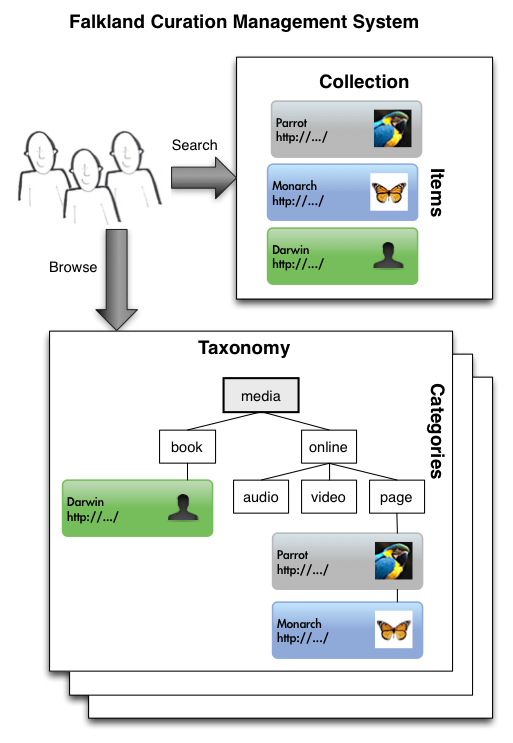
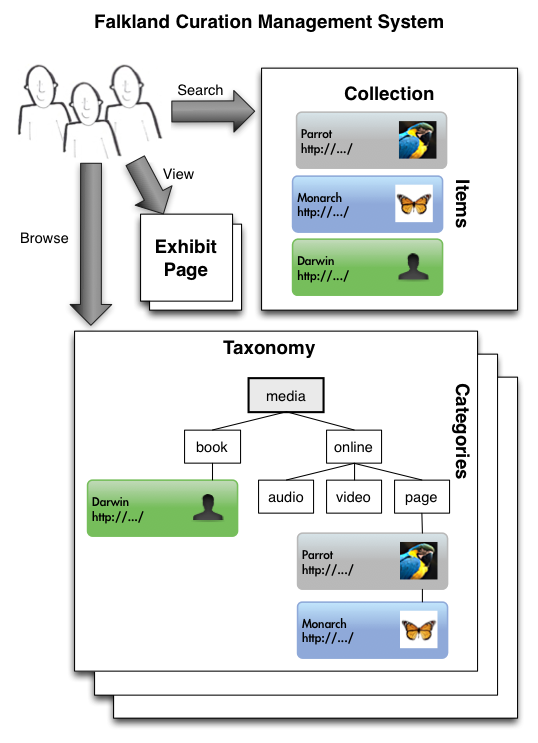
README and Key Concepts image updates.

Changed region(s): [[0.0312, 0.0, 0.9669, 0.9906], [0.5302, 0.712, 0.655, 0.8977]]

diff --git a/README.md b/README.md
@@ -106,9 +106,9 @@ A taxonomy is a particular classification scheme for organizing items into hiera
 
 There are 3 types of pages:
 
-* **item** - an item page displays a single particular item from the collection.
-* **taxonomy** - a taxonomy page page displays a list of items in a particular category of a particular taxonomy.
-* **exhibit** - An exhibit page may reference many named or searched for resources, but could also be made up of just static content. A home page is a good example of a dynamic exhibit page, and an about page, or terms of use page is a good example of a completely static exhibit page.
+* **item** - displays a single item from the collection.
+* **category** - displays the items in a particular category of a particular taxonomy.
+* **exhibit** - may reference many named or searched for resources, but could also be made up of just static content. A home page is a good example of a dynamic exhibit page, and an about page, or terms of use page is a good example of a completely static exhibit page.
 
 ### <a name="security"/> Security Model
 
